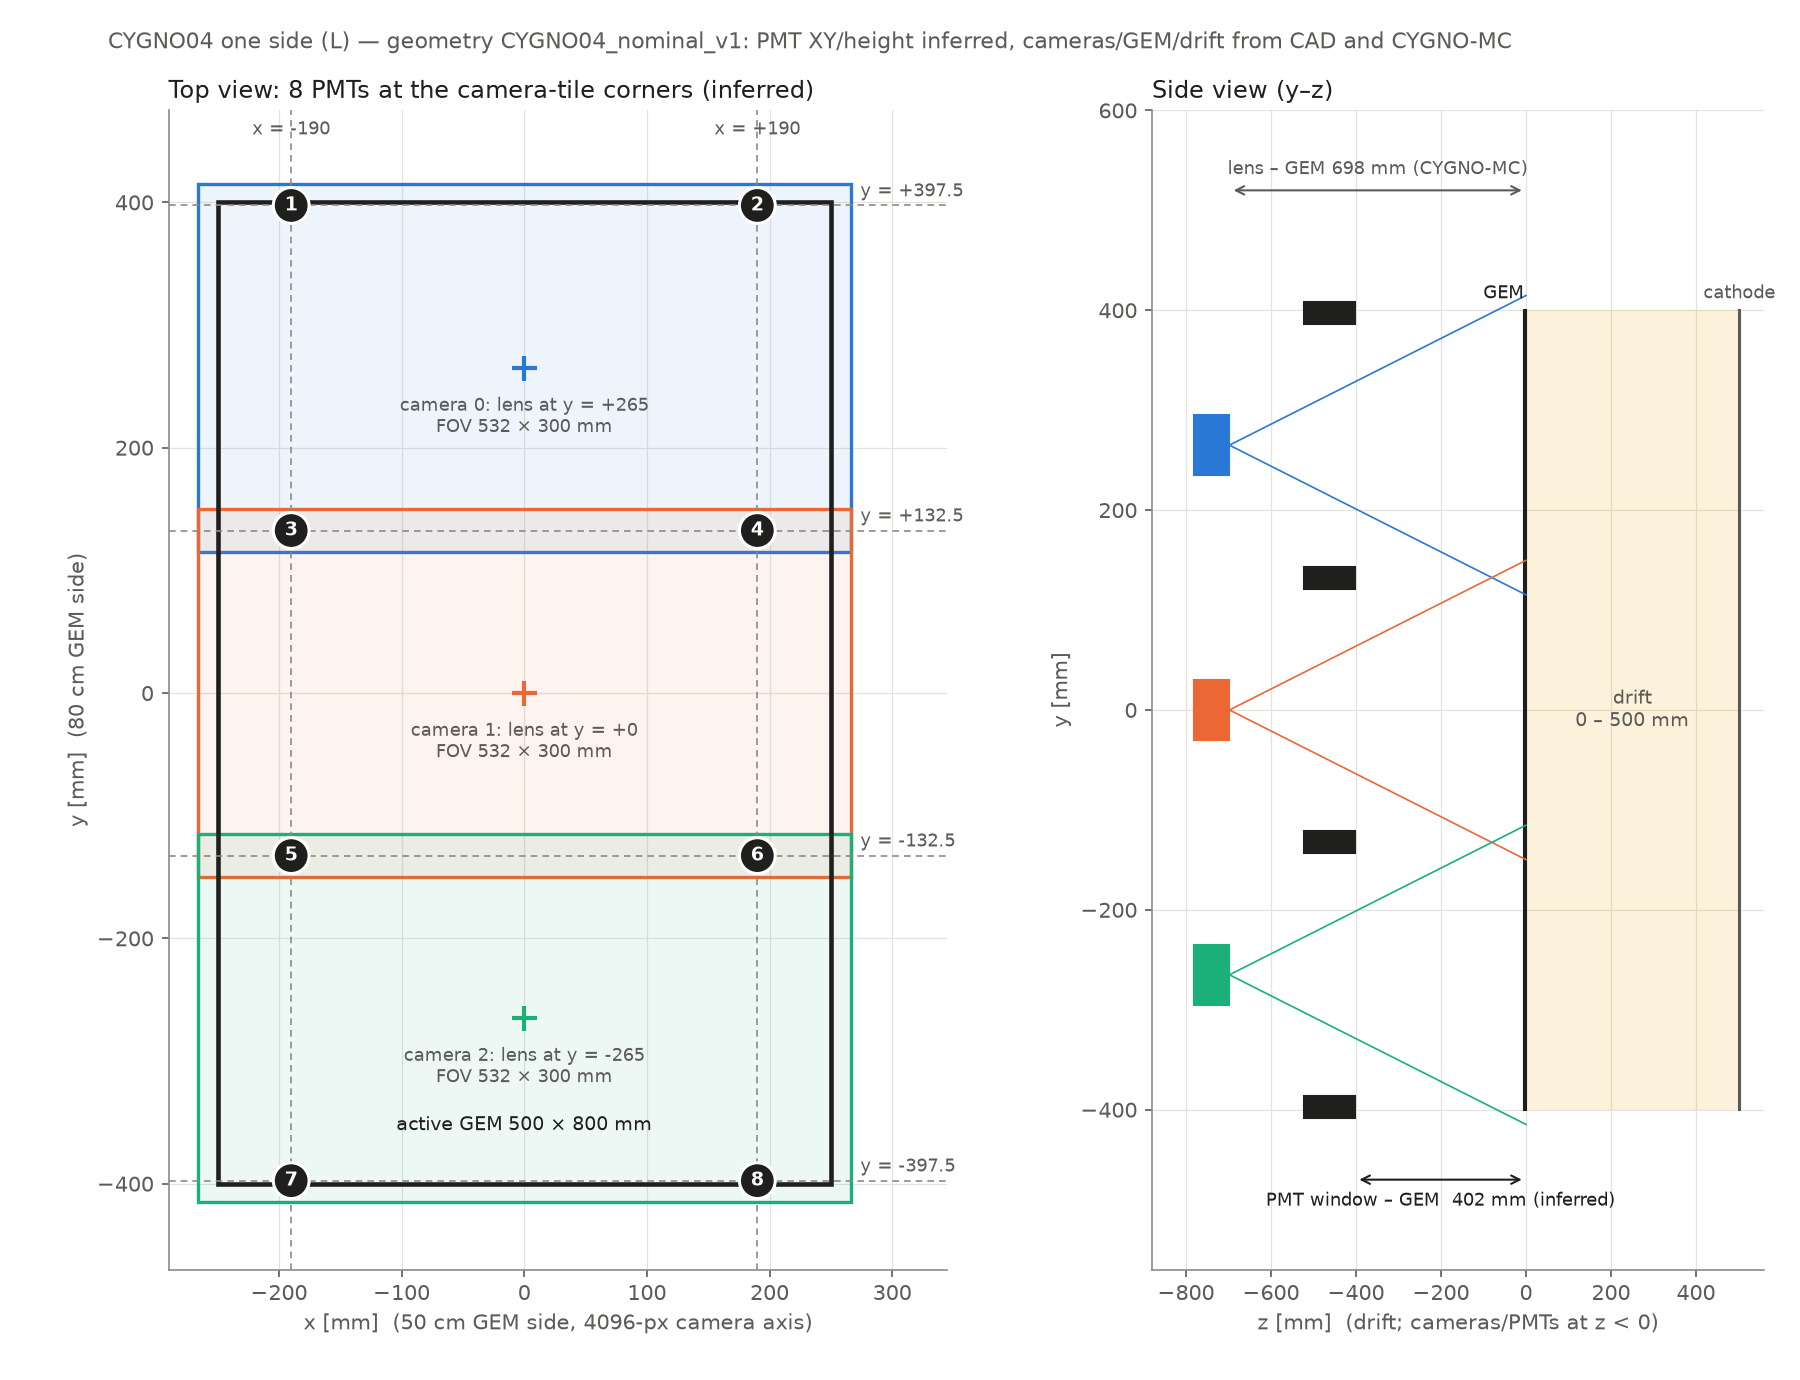
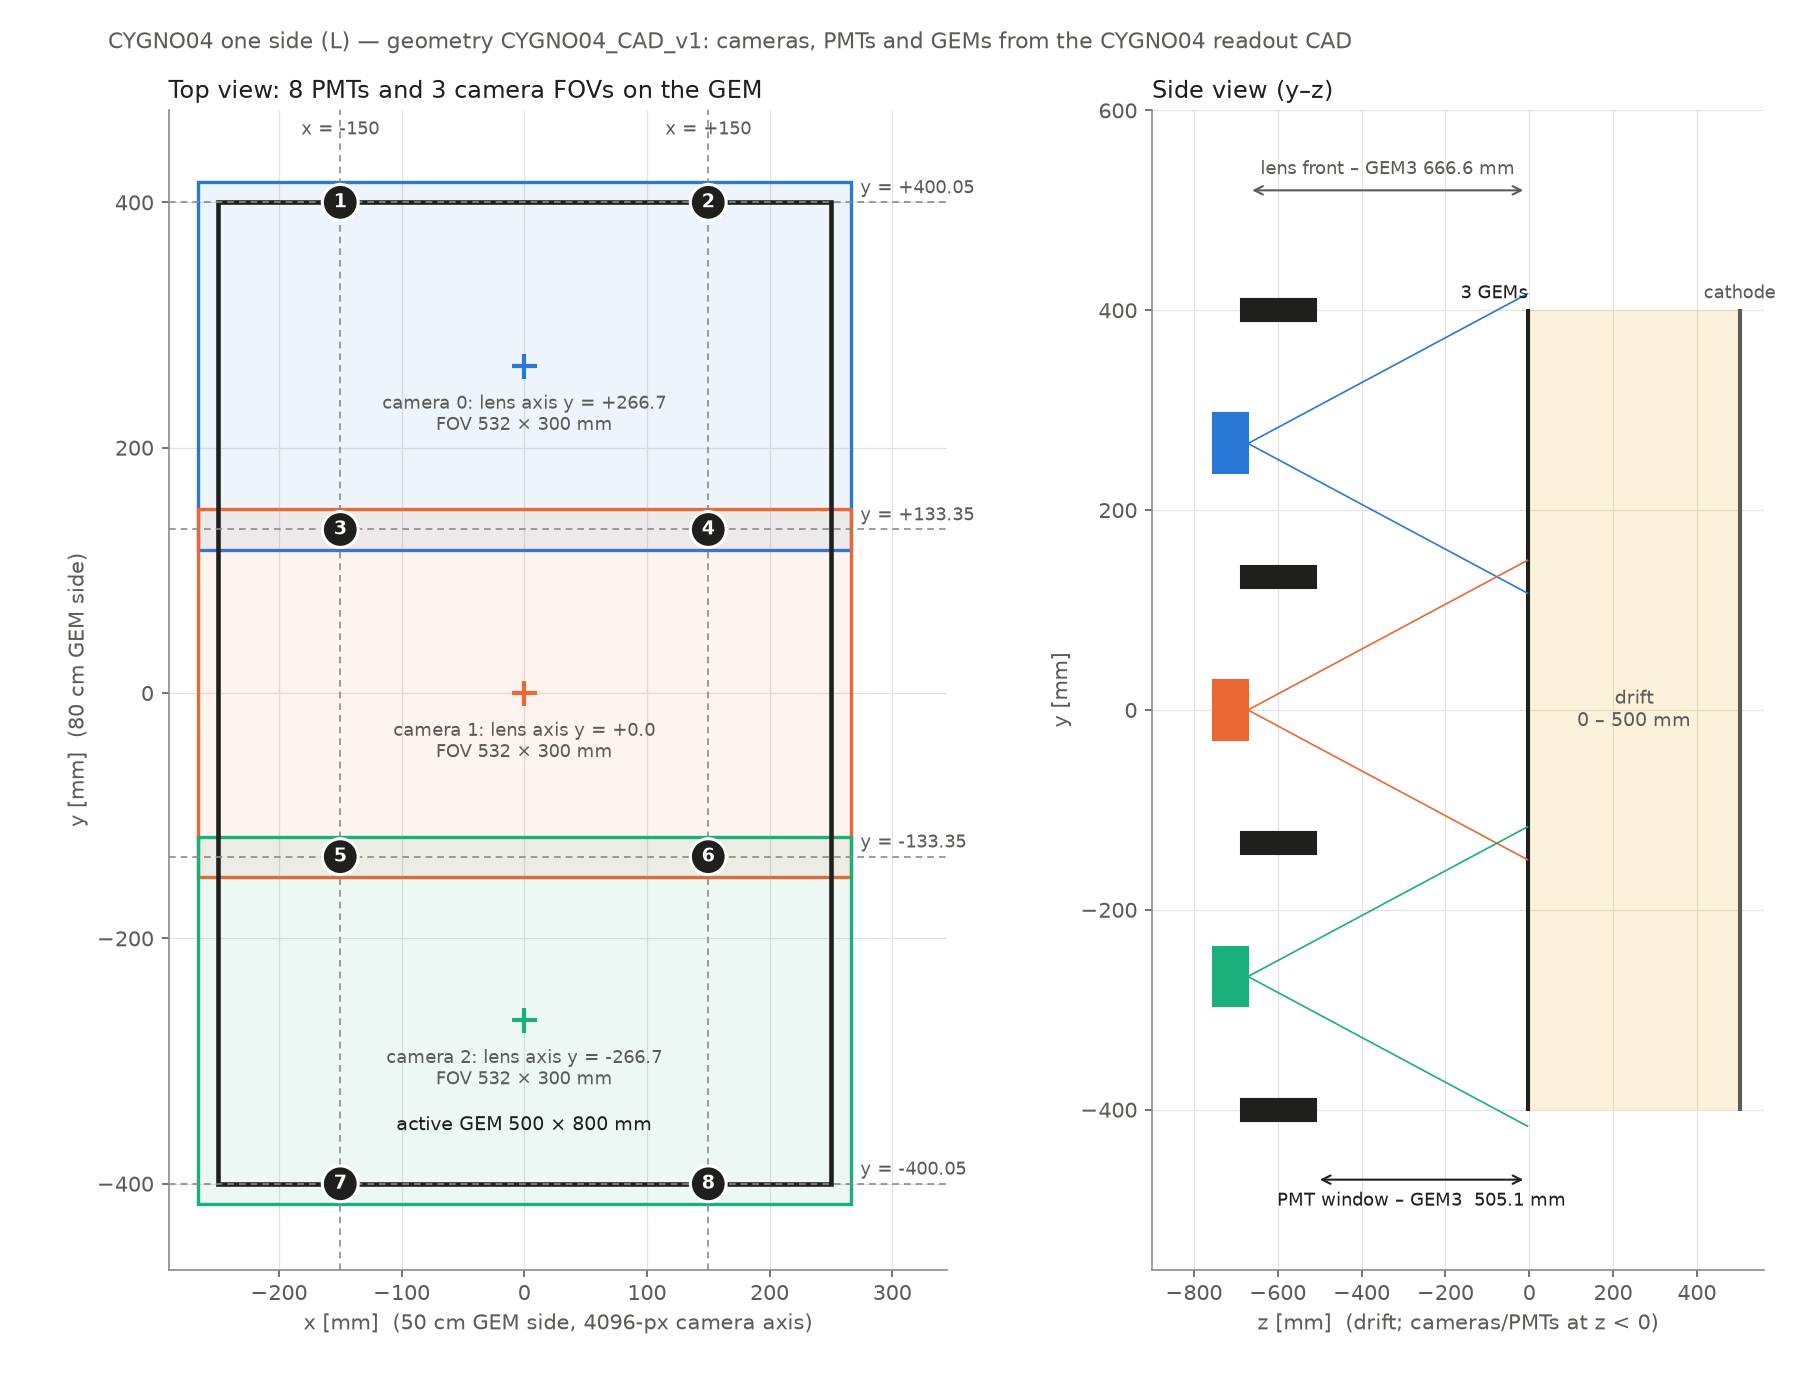
Take CYGNO04 cameras, PMTs and GEM stack from the readout CAD
PMTs at x=+-150, y=+-133.35/+-400.05 mm, 505.1 mm from GEM3; camera axes
at y=+-266.7/0. Adds tools/extract_cygno04_cad.py, checks the configs
against the CAD in the geometry test, and enables the TWIN geometry gate.

diff --git a/tools/plot_cygno04_geometry.py b/tools/plot_cygno04_geometry.py
@@ -29,13 +29,13 @@ for (cx, cy), c, i in zip(cams, CAM, range(3)):
     top.add_patch(Rectangle((cx - W/2, cy - H/2), W, H, color=c, alpha=.08, lw=0))
     top.add_patch(Rectangle((cx - W/2, cy - H/2), W, H, fill=False, ec=c, lw=1.6))
     top.plot(cx, cy, marker="+", color=c, ms=12, mew=2)
-    top.text(cx, cy - 22, f"camera {i}: lens at y = {cy:+.0f}\nFOV {W:.0f} × {H:.0f} mm",
+    top.text(cx, cy - 22, f"camera {i}: lens axis y = {cy:+.1f}\nFOV {W:.0f} × {H:.0f} mm",
              color=INK2, fontsize=8.5, va="top", ha="center")
 top.add_patch(Rectangle((gx0, gy0), gx1 - gx0, gy1 - gy0, fill=False, ec=INK, lw=2.2))
 top.text(0, gy0 + 40, f"active GEM {gx1-gx0:.0f} × {gy1-gy0:.0f} mm", ha="center", va="bottom", color=INK, fontsize=9)
-for y in sorted({p[1] for p in pmts}):                       # PMT rows = camera-tile boundaries
+for y in sorted({p[1] for p in pmts}):                       # PMT rows = FOV seams and outer edges
     top.axhline(y, color=MUTED, lw=.8, ls=(0, (4, 3)), zorder=1)
-    top.text(274, y + 4, f"y = {y:+.1f}", va="bottom", ha="left", fontsize=8.5, color=INK2)
+    top.text(274, y + 4, f"y = {y:+.2f}", va="bottom", ha="left", fontsize=8.5, color=INK2)
 for x in sorted({p[0] for p in pmts}):
     top.axvline(x, color=MUTED, lw=.8, ls=(0, (4, 3)), zorder=1)
     top.text(x, 452, f"x = {x:+.0f}", ha="center", va="bottom", fontsize=8.5, color=INK2)
@@ -45,7 +45,7 @@ for i, (x, y) in enumerate(pmts, 1):
     top.text(x, y, str(i), color="white", ha="center", va="center", fontsize=9, weight="bold", zorder=6)
 top.set(xlim=(-290, 345), ylim=(-470, 475), aspect="equal",
         xlabel="x [mm]  (50 cm GEM side, 4096-px camera axis)", ylabel="y [mm]  (80 cm GEM side)")
-top.set_title("Top view: 8 PMTs at the camera-tile corners (inferred)", loc="left", color=INK, fontsize=11.5)
+top.set_title("Top view: 8 PMTs and 3 camera FOVs on the GEM", loc="left", color=INK, fontsize=11.5)
 for s in ("top", "right"): top.spines[s].set_visible(False)
 
 # ---- Side view along drift (z = 0 innermost GEM foil, z > 0 towards cathode; optics at z < 0)
@@ -53,23 +53,24 @@ side.add_patch(Rectangle((0, gy0), 500, gy1 - gy0, color="#eda100", alpha=.14, l
 side.text(250, 0, "drift\n0 – 500 mm", ha="center", va="center", color=INK2, fontsize=9)
 side.add_patch(Rectangle((500, gy0), 4, gy1 - gy0, color=INK2))
 side.text(502, gy1 + 12, "cathode", fontsize=8.5, color=INK2, ha="center")
-side.add_patch(Rectangle((-4.2, gy0), 4.2, gy1 - gy0, color=INK))
-side.text(-4, gy1 + 12, "GEM", ha="right", fontsize=8.5, color=INK)
+gem3 = -4.3                                                   # camera-side face of the 3-GEM stack (CAD)
+side.add_patch(Rectangle((gem3, gy0), -gem3, gy1 - gy0, color=INK))
+side.text(-4, gy1 + 12, "3 GEMs", ha="right", fontsize=8.5, color=INK)
 for y in sorted({p[1] for p in pmts}):
-    side.add_patch(Rectangle((-h - 120, y - r), 120, 2*r, color=INK))
-side.annotate("", xy=(-h, -470), xytext=(0, -470), arrowprops=dict(arrowstyle="<->", color=INK, lw=1))
-side.text(-h/2, -482, f"PMT window – GEM  {h:.0f} mm (inferred)", ha="center", va="top", fontsize=8.5, color=INK)
-lens = -697.8
+    side.add_patch(Rectangle((gem3 - h - 178.9, y - r), 178.9, 2*r, color=INK))
+side.annotate("", xy=(gem3 - h, -470), xytext=(gem3, -470), arrowprops=dict(arrowstyle="<->", color=INK, lw=1))
+side.text(gem3 - h/2, -482, f"PMT window – GEM3  {h:.1f} mm", ha="center", va="top", fontsize=8.5, color=INK)
+lens = gem3 - 666.6                                           # lens front (CAD)
 for (cx, cy), c in zip(cams, CAM):
     side.add_patch(Rectangle((lens - 84, cy - 30), 84, 60, color=c))
-    side.plot([lens, 0], [cy, cy + H/2], color=c, lw=.8); side.plot([lens, 0], [cy, cy - H/2], color=c, lw=.8)
-side.annotate("", xy=(lens, 520), xytext=(0, 520), arrowprops=dict(arrowstyle="<->", color=INK2, lw=1))
-side.text(lens/2, 532, "lens – GEM 698 mm (CYGNO-MC)", ha="center", va="bottom", fontsize=8.5, color=INK2)
-side.set(xlim=(-880, 560), ylim=(-560, 600), xlabel="z [mm]  (drift; cameras/PMTs at z < 0)", ylabel="y [mm]")
+    side.plot([lens, gem3], [cy, cy + H/2], color=c, lw=.8); side.plot([lens, gem3], [cy, cy - H/2], color=c, lw=.8)
+side.annotate("", xy=(lens, 520), xytext=(gem3, 520), arrowprops=dict(arrowstyle="<->", color=INK2, lw=1))
+side.text((lens + gem3)/2, 532, "lens front – GEM3 666.6 mm", ha="center", va="bottom", fontsize=8.5, color=INK2)
+side.set(xlim=(-900, 560), ylim=(-560, 600), xlabel="z [mm]  (drift; cameras/PMTs at z < 0)", ylabel="y [mm]")
 side.set_title("Side view (y–z)", loc="left", color=INK, fontsize=11.5)
 for s in ("top", "right"): side.spines[s].set_visible(False)
 for ax in (top, side): ax.grid(color=GRID, lw=.6); ax.set_axisbelow(True)
 
 fig.text(0.06, 0.965, f"CYGNO04 one side ({cfg['twin_side']}) — geometry {cfg['twin_geometry_id']}: "
-         "PMT XY/height inferred, cameras/GEM/drift from CAD and CYGNO-MC", fontsize=10.5, color=INK2)
+         "cameras, PMTs and GEMs from the CYGNO04 readout CAD", fontsize=10.5, color=INK2)
 fig.savefig(out, dpi=150); print("wrote", out)

diff --git a/tools/extract_cygno04_cad.py b/tools/extract_cygno04_cad.py
@@ -1,0 +1,38 @@
+"""Print the CYGNO04 camera, PMT and GEM positions in the digitizer frame from the readout CAD.
+Usage: freecadcmd tools/extract_cygno04_cad.py   with CYGNO04_CAD=/path/to/CAMERAS+PMT+GEM.FCStd
+(freecadcmd ships with FreeCAD, e.g. /Applications/FreeCAD.app/Contents/Resources/bin/freecadcmd).
+
+CAD frame of the 'Cygno04 - Detector' part: +X = GEM normal towards the optics, Y = 50 cm GEM side,
+Z = 80 cm GEM side. Digitizer frame: x = CAD Y, y = CAD Z, distances along CAD X."""
+import os
+import FreeCAD
+
+doc = FreeCAD.openDocument(os.environ["CYGNO04_CAD"])
+to_det = doc.getObject("Cygno04___Detector").getGlobalPlacement().inverse()
+
+def box(prefix):
+    """Bounding boxes, in the detector frame, of the parts whose label starts with prefix."""
+    out = []
+    for o in doc.Objects:
+        if o.TypeId == "Part::Feature" and o.Label.startswith(prefix):
+            s = o.Shape.copy()
+            s.Placement = to_det.multiply(o.getGlobalPlacement())
+            out.append(s.BoundBox)
+    return out
+
+gems = sorted(box("Gem top"), key=lambda b: b.XMin)
+pmts = box("PMT-1inch")
+lenses = box("EHD-25085-C")
+# Camera assembly origins lie on the optical axes (lens boxes are not symmetric about them).
+cams = [to_det.multiply(o.getGlobalPlacement()).Base for o in doc.Objects
+        if o.TypeId == "App::Part" and o.Label.startswith("Camera")]
+assert len(gems) == 3 and len(pmts) == 8 and len(lenses) == 3 and len(cams) == 3
+gem3 = gems[-1].XMax                                   # camera-side face of the camera-side foil
+g = gems[0]
+print(f"GEM foils (CAD X of drift-side faces): {[round(b.XMin, 2) for b in gems]}")
+print(f"GEM foil outline: x {g.YMin:.2f}..{g.YMax:.2f}, y {g.ZMin:.2f}..{g.ZMax:.2f} mm")
+print(f"Camera axes (x, y): {sorted((round(c.y, 2) + 0., round(c.z, 2)) for c in cams)}")
+print(f"Lens front - GEM3: {min(b.XMin for b in lenses) - gem3:.1f} mm")
+print(f"PMT centres (x, y): {sorted((round(b.Center.y, 2), round(b.Center.z, 2)) for b in pmts)}")
+print(f"PMT window - GEM3 (dist_gem_pmt): {min(b.XMin for b in pmts) - gem3:.1f} mm")
+print(f"PMT body diameter: {pmts[0].YLength:.2f} mm, length {pmts[0].XLength:.1f} mm")

diff --git a/doc/TWIN_DIGI_CHANGES.md b/doc/TWIN_DIGI_CHANGES.md
@@ -13,7 +13,7 @@ Line numbers refer to this branch. They are written as `file:line` and link to t
 |---|---|---|
 | **Standard (upstream)** | `config/ConfigFile_new.txt` (LIME, 4 PMTs) | Same output as upstream `main` (§2) |
 | **CYGNO04, 1 camera + 8 PMTs** | `config/ConfigFile_CYGNO04_8PMT.txt` | Standard digitizer with `pmt_number: 8`: Quest2 central camera and 8 waveform pairs `wav_fast/slow_pmt1..8`. All legacy options still work (pedestal `bckg`, `Vignetting`, `redpix_output`, `digitizers`, random shifts, `fixed_seed`, PSD noise) |
-| **TWIN ML datasets** | `config/ConfigFile_TWIN_CYGNO04.txt` | `twin_cygno04_mode: True`: camera choice and paired depths, `ml_*`/`obs_*` truth records ([TWIN_SCHEMA.md](TWIN_SCHEMA.md)). Blocked until `twin_geometry_verified: True` |
+| **TWIN ML datasets** | `config/ConfigFile_TWIN_CYGNO04.txt` | `twin_cygno04_mode: True`: camera choice and paired depths, `ml_*`/`obs_*` truth records ([TWIN_SCHEMA.md](TWIN_SCHEMA.md)). |
 
 ## 2. Verified identical to upstream `main`
 
@@ -94,40 +94,58 @@ The three earlier drift-boundary fixes (fractional negative z, z ≥ 0 only, upp
 
 Each key is commented where it is used: [ConfigFile_new.txt:25](../config/ConfigFile_new.txt#L25), [:102](../config/ConfigFile_new.txt#L102)–104, [:135](../config/ConfigFile_new.txt#L135); [ConfigFile_CYGNO04_8PMT.txt:1](../config/ConfigFile_CYGNO04_8PMT.txt#L1)–12 (how to switch camera) and [:115](../config/ConfigFile_CYGNO04_8PMT.txt#L115)–122.
 
-## 6. CYGNO04 geometry and PMT positions (`CYGNO04_nominal_v1`)
+## 6. CYGNO04 geometry and PMT positions (`CYGNO04_CAD_v1`)
 
 ![CYGNO04 PMT positions](cygno04_pmt_positions.png)
 
 Regenerate the figure with `python3 tools/plot_cygno04_geometry.py`.
 
-| Quantity | Value | Status / source |
+Cameras, PMTs and the GEM stack come from the **CYGNO04 readout CAD** provided by the CYGNO collaboration
+(`CAMERAS+PMT+GEM`, the same assembly as `.FCStd`, `.step` and `.stl`; not stored in the repository, 18–85 MB).
+[tools/extract_cygno04_cad.py](../tools/extract_cygno04_cad.py) reads it with FreeCAD and prints every CAD value
+in the table:
+
+```
+CYGNO04_CAD=/path/to/CAMERAS+PMT+GEM.FCStd freecadcmd tools/extract_cygno04_cad.py
+```
+
+**Frames.** In the CAD part `Cygno04 - Detector`, +X is the GEM normal pointing to the optics, Y is the 50 cm
+GEM side and Z the 80 cm side. Digitizer: x = CAD Y, y = CAD Z, and z is the drift distance from the
+drift-side GEM foil (z > 0 towards the cathode).
+
+| Quantity | Value | Source |
 |---|---|---|
-| Active GEM | x ∈ ±250, y ∈ ±400 mm | CAD, `CYGNUS-RD/geometry` `cygno_04_v3` @ `dbf18a3` |
-| Drift | 500 mm (GEM at MC z = −502.2 on side L) | CAD |
-| Cameras | 3 × Quest2, lens at y = +265 / 0 / −265 mm, 698 mm from the GEM | CYGNO-MC `g4v11.3_cygno04` @ `7464329` |
-| FOV per camera | 532.48 × 299.52 mm (0.130 mm/px) | [arXiv:2510.01646](https://arxiv.org/abs/2510.01646) p.70. The reconstruction `cygno04` branch uses 0.152 mm, to be confirmed |
-| **PMTs** | **x = ±190; y = ±132.5, ±397.5 mm; window 402 mm from the GEM; r = 11 mm** | **Inferred** |
-| MC → digitizer | `x,y,z`, `z_offset 502.2` (side L, `/CYGNO/lab/select NoCave`). Side R: `-x`, `-z`, 501.2 | CAD + CYGNO-MC |
+| GEM stack | 3 foils at 2.1 mm pitch; the camera-side foil (GEM3) ends 4.3 mm from the drift-side face of GEM1 | CAD |
+| GEM foil outline | 529 × 829 mm, centred within 1.2 mm of the middle camera axis | CAD |
+| Active GEM | x ∈ ±250, y ∈ ±400 mm | `CYGNUS-RD/geometry` `cygno_04_v3` @ `dbf18a3` |
+| Drift | 500 mm (GEM1 at MC z = −502.2 on side L) | `cygno_04_v3`, CYGNO-MC `g4v11.3_cygno04` @ `7464329` |
+| Cameras | 3 × ORCA-Quest2 with EHD-25085-C lens (25 mm, f/0.85). Optical axes normal to the GEM at x = 0, **y = +266.7 / 0 / −266.7 mm**. Lens front 666.6 mm from GEM3 | CAD |
+| FOV per camera | 532.48 × 299.52 mm (0.130 mm/px), 4096-px axis along x | [arXiv:2510.01646](https://arxiv.org/abs/2510.01646) p.70, consistent with the CAD (below) |
+| **PMTs** | 8 × 1-inch tubes (body Ø 26 mm, window radius 11.5 mm). **x = ±150; y = ±133.35, ±400.05 mm; window 505.1 mm from GEM3** (`dist_gem_pmt`) | CAD |
+| `pmt_radius` | 11 mm | R7378A effective photocathode; fits inside the 11.5 mm CAD window |
+| MC → digitizer | `x,y,z`, `z_offset 502.2` (side L, `/CYGNO/lab/select NoCave`). Side R: `-x`, `-z`, 501.2 | `cygno_04_v3` + CYGNO-MC |
 
-**How the PMT positions were inferred.** No public drawing gives the PMT coordinates. The thesis says the
-8 PMTs per side sit "at the corners of each camera". The superseded `cygno_04_v2` CAD (2 cameras,
-6 PMTs per side) puts them exactly on the **shared corners of the camera tiles**: x = ±190, and y = 0 and ±380
-for tiles centred at ±190. Applying the same rule to 3 tiles centred at 0 and ±265 gives rows at ±132.5 (seams)
-and ±397.5 (outer edges): 4 rows × 2 = exactly 8. The x = ±190 and the 402 mm height are copied from v2
-and are the least certain values. Moving the PMTs mainly changes the light-sharing pattern, not the timing.
-Systematics worth trying: x = ±250, or PMTs on the camera plane (~700 mm).
-`twin_geometry_verified` stays `False` until the CYGNO hardware group confirms these values.
+**Layout.** The PMTs form two columns at x = ±150 mm. The four rows sit on the camera FOV seams
+(y = ±133.35 mm, half the 266.7 mm camera spacing) and on the outer FOV edges (y = ±400.05 mm, 1.5 × the spacing).
 
-For the 1-camera 8-PMT config, the PMT XY are given relative to the **simulated** camera centre
-(central camera → same as GEM XY). For another camera, subtract its y and set `y_offset` (see the config header).
+**FOV cross-check.** For a thin 25 mm lens with the Quest2 sensor (4096 × 4.6 µm) at the C-mount flange
+distance (17.526 mm behind the lens flange), the CAD sensor–GEM3 distance of 769.6 mm gives a demagnification of
+28.8, i.e. **0.132 mm/px**. This agrees with the 0.130 mm/px FOV within 2 %; 0.152 mm/px would need about 880 mm.
 
-Other sources consulted:
+**Sensor orientation.** The 4096-px axis must lie along x: with the sensor turned by 90°, the 299.52 mm FOV side
+could not cover the 500 mm GEM side.
+
+**Numbering.** PMT 1–8 and camera 0–2 (figure) are the digitizer's convention. The CAD carries no readout channel
+numbers, so map them to DAQ channels before comparing with data.
+
+**One-camera 8-PMT config.** PMT XY are given relative to the **simulated** camera centre (central camera →
+same as GEM XY). For another camera, subtract its y (±266.7 mm) and set `y_offset` (see the config header).
+
+Other sources:
 * [arXiv:2512.01762](https://arxiv.org/abs/2512.01762)
 * [arXiv:2603.22595](https://arxiv.org/abs/2603.22595)
 * [IDM2026 slides, S. Piacentini](https://indico.capa.unizar.es/event/40/contributions/862/attachments/618/1369/IDM2026_Piacentini.pdf) p.10
 * [CYGNUS-RD/WIKI-documentation CYGNO-04](https://github.com/CYGNUS-RD/WIKI-documentation/tree/main/CYGNO-04)
-
-The earlier copies of the third-party drawings are in git history (commit `c90ad06`, `docs/drawings/`).
 
 ## 7. TWIN pairing rules (summary)
 
@@ -151,6 +169,11 @@ The earlier copies of the third-party drawings are in git history (commit `c90ad
   * the TWIN PMT trigger is ideal (first photoelectron).
 * **Inherited from upstream:** the PMT acceptance r²h²/(4R⁴) has one extra cos θ compared with the exact
   small-disk solid angle, and photon counts are rounded per voxel.
+* **Not in the readout CAD:** the cathode and field cage. The drift length, `z_offset` and active GEM area come
+  from `cygno_04_v3` and CYGNO-MC. In the CAD, GEM1 lies 510.0 mm from the detector's central plane: if the cathode
+  is on that plane, the drift gap is 510 mm rather than 500.
+* **Lens aperture:** the CAD lens is f/0.85, while `camera_aperture` is 0.95 (LIME value). The camera light
+  factor scales as 1/aperture², so f/0.85 gives 25 % more light; the overall scale `A` still needs calibration.
 * **Pedestals with Quest2:** `bckg: True` needs Quest2 pedestal runs. The code stops on a Fusion/Quest mismatch.
 
 ## 9. Tests
@@ -159,5 +182,5 @@ The earlier copies of the third-party drawings are in git history (commit `c90ad
 python3 tests/run_pmt_tests.py [--without-opencv]   # 4 and 8 PMTs, noise switch/remap, legacy vs TWIN reset, ROOT round trip
 python3 tests/run_twin_ml_tests.py                  # actual runner in TWIN mode, 8 waveforms, reproducibility
 c++ -std=c++17 -Iinclude tests/test_twin.cxx src/PMTHits.cxx -o /tmp/t && /tmp/t
-c++ -std=c++17 -Iinclude tests/test_cygno04_geometry.cxx src/ConfigManager.cxx src/PMTHits.cxx $(root-config --cflags --libs) -o /tmp/g && /tmp/g
+c++ -std=c++17 -Iinclude tests/test_cygno04_geometry.cxx src/ConfigManager.cxx src/PMTHits.cxx $(root-config --cflags --libs) -o /tmp/g && /tmp/g   # configs match the CAD values
 ```

diff --git a/doc/TWIN_SCHEMA.md b/doc/TWIN_SCHEMA.md
@@ -1,6 +1,6 @@
 # TWIN ROOT observation contract, schema 1
 
-Enable `twin_cygno04_mode` using the completed Stage 2 geometry configuration.
+Enable `twin_cygno04_mode` with `config/ConfigFile_TWIN_CYGNO04.txt` (geometry `CYGNO04_CAD_v1`).
 This adds branches to `event_info`; no ML branches are added when disabled.
 Do not select model features by numeric dtype or by loading every ROOT branch.
 Use the explicit observable allowlist below. The complete config is audit data,
@@ -218,8 +218,8 @@ legacy paths with an explicit zero-noise IFFT stub. tests/test_twin.cxx covers
 paired geometry/depth containment and fixed PMTs. `tools/inspect_twin_event.py`
 uses PyROOT to display one event's 3D truth, camera and sixteen waveforms.
 
-Before production: complete/verify Stage 2 optical/PMT/GEM geometry and 500 mm
-interval (reference fiducial gas is only 470 mm), validate sensor calibration and
+Before production: confirm the 500 mm drift interval (reference fiducial gas is
+only 470 mm), validate sensor calibration and
 ideal-trigger assumptions, build with ROOTANA/OpenCV, run real ER/He/C/F MC files,
 inspect all energy/rejection distributions, verify four variants pair completely,
 and repeat outputs on the exact CNAF binary/dependency stack. Synthetic fixtures

diff --git a/README_PMT.md b/README_PMT.md
@@ -61,8 +61,8 @@ The simulation is activated and controlled via the `# PMT simulation parameters`
 ## CYGNO04: one camera + 8 PMTs
 
 `config/ConfigFile_CYGNO04_8PMT.txt` is the ordinary digitizer with `pmt_number: 8`: the
-CYGNO04 Quest2 central camera and the 8 nominal PMT positions (inferred, see
-`doc/TWIN_DIGI_CHANGES.md`), LIME noise templates remapped to 8 channels. All legacy
+CYGNO04 Quest2 central camera and the 8 PMT positions from the CYGNO04 readout CAD (see
+`doc/TWIN_DIGI_CHANGES.md` §6), LIME noise templates remapped to 8 channels. All legacy
 options (`bckg`, `Vignetting`, `redpix_output`, `digitizers`, random shifts, `fixed_seed`)
 behave as in the LIME template. Electronics/SPE settings are LIME values, not a CYGNO04
 calibration.
